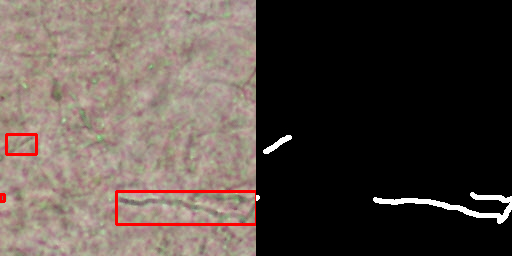
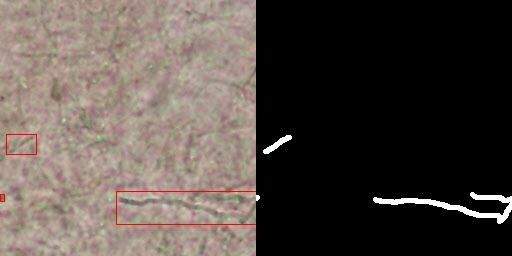
improvised bounding box code

Changed region(s): [[0.2188, 0.7188, 0.5, 0.9062], [0.0, 0.5, 0.0938, 0.625], [0.0, 0.75, 0.0312, 0.7812]]

diff --git a/Annotations/bbox-Improvised.py b/Annotations/bbox-Improvised.py
@@ -69,13 +69,15 @@ if __name__ == "__main__":
         ''' NORMALIZE THE VALUES ?? '''
         # Marking bounding box on image
         for bbox in bboxes:
-            x = cv2.rectangle(x, (bbox[0], bbox[1]), (bbox[2], bbox[3]), (0, 0, 255), 2)
+            x = cv2.rectangle(x, (bbox[0], bbox[1]), (bbox[2], bbox[3]), (0, 0, 255), 1)
 
             # Calculate & store bounding boxes
             height = bbox[3]-bbox[1]
             width = bbox[2]-bbox[0]
             x1 = bbox[0] + (width//2)
             y1 = bbox[1] + (height//2)
+
+            height, width, x1, y1 = height/255, width/255, x1/255, y1/255
             ''' VERIFY THE COORDINATES '''
 
             with open('annote.txt', 'a') as file:

diff --git a/README.md b/README.md
@@ -1,10 +1,9 @@
 # Fungus-ROI-Detection
 
-
 ##### OBSERVATIONS #####
 
-- Usual bounding boxes may not be suitable for the work (overal density vary a lot (low -> high))
--
+- In the final ROI prediction, check the total area of the bbox (since number of bbox vary a lot)
+- Usual bounding boxes may not be suitable for the work
 -
 
 
